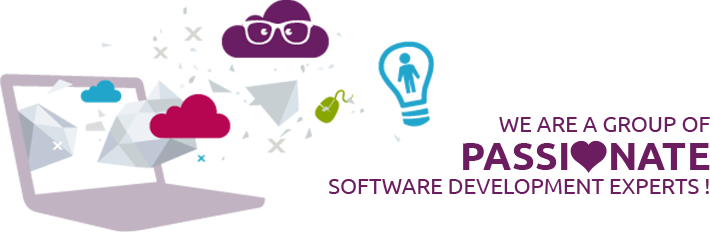
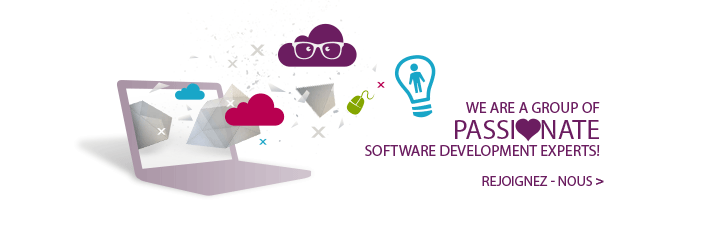
Ordi Moche pour nous rejoindre

diff --git a/data.html b/data.html
@@ -69,7 +69,9 @@
     </section>
 
     <section class="ordi-moche centering">
-        <img src="images/services/ordi-moche.png" alt="Ordinateur moche"/>
+        <a href="career.html" title="nous rejoindre">
+            <img src="images/services/ordi-moche.png" alt="Ordinateur moche"/>
+        </a>
     </section>
 
     <section class="our-offer centering">

diff --git a/devops.html b/devops.html
@@ -70,7 +70,9 @@
     </section>
 
     <section class="ordi-moche centering">
-        <img src="images/services/ordi-moche.png" alt="Ordinateur moche"/>
+        <a href="career.html" title="nous rejoindre">
+            <img src="images/services/ordi-moche.png" alt="Ordinateur moche"/>
+        </a>
     </section>
 
     <section class="our-missions">

diff --git a/agile.html b/agile.html
@@ -73,7 +73,9 @@
 </section>
 
 <section class="ordi-moche centering">
-    <img src="images/services/ordi-moche.png" alt="Ordinateur moche"/>
+    <a href="career.html" title="nous rejoindre">
+        <img src="images/services/ordi-moche.png" alt="Ordinateur moche"/>
+    </a>
 </section>
 
 
